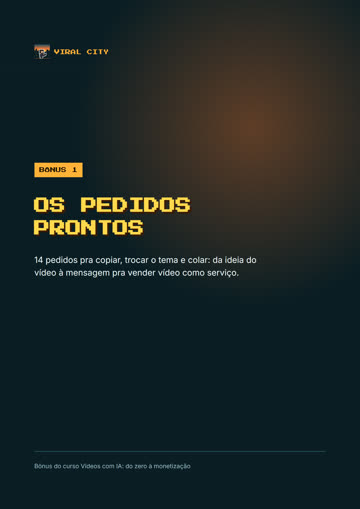
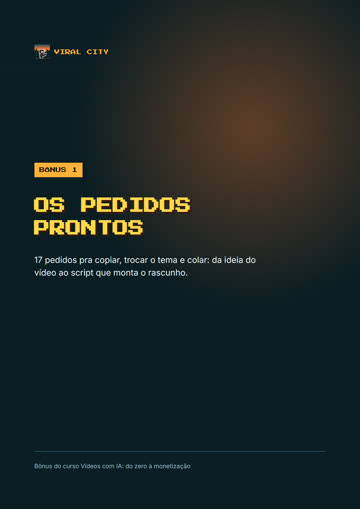
Viral City: a aula extra 11 (automatizar) na página do curso, 12 aulas e 17 pedidos

Changed region(s): [[0.0917, 0.501, 0.7028, 0.5599]]

diff --git a/viralcity/curso/index.html b/viralcity/curso/index.html
@@ -4,9 +4,9 @@
 <meta charset="utf-8">
 <meta name="viewport" content="width=device-width, initial-scale=1">
 <title>Vídeos com IA</title>
-<meta name="description" content="Faça vídeos com IA sem câmera, sem estúdio e sem aparecer. 11 aulas, do roteiro ao vídeo no ar, com os pedidos prontos e as regras pra monetizar. R$ 97, 7 dias de garantia.">
+<meta name="description" content="Faça vídeos com IA sem câmera, sem estúdio e sem aparecer. 12 aulas, do roteiro ao vídeo no ar, com os pedidos prontos e as regras pra monetizar. R$ 97, 7 dias de garantia.">
 <meta property="og:title" content="Vídeos com IA: do zero à monetização">
-<meta property="og:description" content="Faça vídeos com IA sem câmera, sem estúdio e sem aparecer. 11 aulas e 3 bônus, do roteiro à monetização.">
+<meta property="og:description" content="Faça vídeos com IA sem câmera, sem estúdio e sem aparecer. 12 aulas e 3 bônus, do roteiro à monetização.">
 <meta property="og:image" content="midia/vsl.jpg">
 <meta name="theme-color" content="#0b1d24">
 <link rel="icon" href="../img/logo.png">
@@ -245,7 +245,7 @@
     <div class="texto revela">
       <h2 class="tit">Aprenda com quem produz todo dia</h2>
       <p>Esse é o meu escritório. Cada sala é um canal, e cada personagem é um agente de IA escrevendo, narrando e montando vídeo, todos os dias.</p>
-      <p>Todo dia alguém me pergunta como eu faço. <strong>O sistema e o jogo não estão à venda.</strong> O método que está por trás de cada vídeo, sim: eu organizei ele em 11 aulas, na ordem em que você faz.</p>
+      <p>Todo dia alguém me pergunta como eu faço. <strong>O sistema e o jogo não estão à venda.</strong> O método que está por trás de cada vídeo, sim: eu organizei ele em 12 aulas, na ordem em que você faz.</p>
     </div>
     <div class="fones revela">
       <div class="fone"><video src="../img/clipes/escritorio.mp4" poster="../img/clipes/escritorio.jpg" muted playsinline autoplay loop preload="metadata"></video><div class="legenda">O ESCRITÓRIO</div></div>
@@ -292,7 +292,7 @@
     <div class="revela">
       <h2 class="tit" style="text-align:left">Você só pede, em português</h2>
       <p>Sem programar e sem decorar comando. Você escreve do jeito que fala, a IA devolve pronto e você revisa. Você aprende o que pedir em cada etapa e como conferir o que volta.</p>
-      <p>E você não precisa anotar nada: os 14 pedidos das aulas vêm prontos no PDF bônus. É copiar, trocar o tema e colar.</p>
+      <p>E você não precisa anotar nada: os 17 pedidos das aulas vêm prontos no PDF bônus. É copiar, trocar o tema e colar.</p>
       <p class="pequeno">O exemplo da conversa é de uma aula: o tema é uma horta na varanda, qualquer assunto serve.</p>
     </div>
     <div class="janela revela">
@@ -341,6 +341,12 @@
         <li class="revela"><img src="midia/aula-10.jpg" alt="" loading="lazy"><div><b>AULA 10</b><strong>Monetizar</strong><span>Os requisitos do Programa de Parcerias e 4 caminhos de renda além do anúncio, alguns que nem esperam a monetização</span></div></li>
       </ol>
     </div>
+    <div class="modulo">
+      <h3 class="revela">AULA EXTRA: AUTOMATIZAR</h3>
+      <ol class="aulas">
+        <li class="revela"><img src="midia/aula-11.jpg" alt="" loading="lazy"><div><b>AULA 11</b><strong>Automatizar a criação</strong><span>O projeto com as regras do canal, a pauta de 30 ideias, a produção em lote, o modelo de montagem e o script que a IA escreve pra montar o rascunho</span></div></li>
+      </ol>
+    </div>
   </section>
 
   <section>
@@ -357,7 +363,7 @@
     <h2 class="tit revela">E você ainda leva 3 bônus</h2>
     <p class="chamada revela">O que as aulas ensinam, organizado pra consultar na hora de fazer o vídeo. Em PDF, pra deixar aberto do lado ou imprimir.</p>
     <div class="bonus">
-      <div class="peca revela"><img src="midia/bonus-1.jpg" alt="Capa do bônus Os pedidos prontos" loading="lazy"><b>BÔNUS 1</b><h3>Os pedidos prontos</h3><p>Os 14 pedidos das aulas, da ideia do vídeo à mensagem pra vender vídeo como serviço. Copie, troque o tema e cole.</p></div>
+      <div class="peca revela"><img src="midia/bonus-1.jpg" alt="Capa do bônus Os pedidos prontos" loading="lazy"><b>BÔNUS 1</b><h3>Os pedidos prontos</h3><p>Os 17 pedidos das aulas, da ideia do vídeo ao script que monta o rascunho. Copie, troque o tema e cole.</p></div>
       <div class="peca revela"><img src="midia/bonus-2.jpg" alt="Capa do bônus Checklist antes de publicar" loading="lazy"><b>BÔNUS 2</b><h3>Checklist antes de publicar</h3><p>39 pontos pra conferir antes de subir, do roteiro ao envio. Erro pego aqui custa um minuto, não o vídeo.</p></div>
       <div class="peca revela"><img src="midia/bonus-3.jpg" alt="Capa do bônus O guia das ferramentas" loading="lazy"><b>BÔNUS 3</b><h3>O guia das ferramentas</h3><p>Qual ferramenta usar em cada etapa, o que ela faz e quais têm opção grátis pra começar.</p></div>
     </div>
@@ -378,13 +384,13 @@
     <div class="regras">
       <div class="regra vermelha revela"><h3>Pagar pra fazerem</h3><p>Você paga por vídeo, espera a entrega e depende de outra pessoa pra cada publicação. E no vídeo seguinte, paga de novo.</p></div>
       <div class="regra vermelha revela"><h3>Aprender sozinho</h3><p>Semanas juntando tutorial solto, testando ferramenta e descobrindo a regra do YouTube só quando o vídeo perde a monetização.</p></div>
-      <div class="regra verde revela"><h3>Aprender aqui</h3><p>R$ 97 uma vez só, pelas 11 aulas e os 3 bônus: menos de R$ 9 por aula. E as ferramentas que ele usa têm opção grátis pra começar.</p></div>
+      <div class="regra verde revela"><h3>Aprender aqui</h3><p>R$ 97 uma vez só, pelas 12 aulas e os 3 bônus: menos de R$ 9 por aula. E as ferramentas que ele usa têm opção grátis pra começar.</p></div>
     </div>
   </section>
 
   <section>
     <div class="numeros">
-      <div class="numero revela"><div class="valor" data-conta="11">11</div><div class="rot">aulas em vídeo</div></div>
+      <div class="numero revela"><div class="valor" data-conta="12">12</div><div class="rot">aulas em vídeo</div></div>
       <div class="numero revela"><div class="valor" data-conta="3">3</div><div class="rot">bônus em PDF</div></div>
       <div class="numero revela"><div class="valor" data-conta="7">7</div><div class="rot">dias de garantia</div></div>
     </div>
@@ -405,7 +411,7 @@
       <div class="preco">R$ 97</div>
       <div class="pequeno">pagamento único · menos de R$ 9 por aula</div>
       <ul>
-        <li><strong>11 aulas em vídeo</strong>, em 2 módulos: fazer o vídeo, e publicar e monetizar</li>
+        <li><strong>12 aulas em vídeo</strong>, em 2 módulos e uma aula extra: fazer o vídeo, publicar e monetizar, e automatizar</li>
         <li>5 formatos de vídeo longo e os cortes pra Shorts, Reels e TikTok</li>
         <li>As regras de monetização conferidas nas páginas oficiais</li>
         <li><strong>Bônus 1:</strong> os pedidos prontos de cada aula</li>
@@ -437,7 +443,7 @@
 </main>
 
 <div class="barra-compra" id="barra">
-  <div class="txt">11 aulas + 3 bônus · <b>R$ 97</b> · 7 dias de garantia</div>
+  <div class="txt">12 aulas + 3 bônus · <b>R$ 97</b> · 7 dias de garantia</div>
   <a class="botao botao-pequeno" href="#oferta">Quero aprender</a>
 </div>
 
